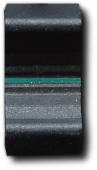
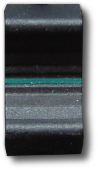
MixerChannel modifiziert New: SetupWidget

diff --git a/StageRunner/gui/customwidget/mixerchannel.cpp b/StageRunner/gui/customwidget/mixerchannel.cpp
@@ -20,6 +20,8 @@ MixerChannel::MixerChannel(QWidget *parent) :
 	knob_yoffset = 0;
 
 	knob_selected_f = false;
+	knob_over_f = false;
+
 	click_value = 0;
 
 	lo_pos_percent = float(LO_POS_PERCENT) / 100;
@@ -28,9 +30,11 @@ MixerChannel::MixerChannel(QWidget *parent) :
 
 	org_pix_back = QPixmap(":/gfx/customwidget/slider_back.png");
 	org_pix_knob = QPixmap(":/gfx/customwidget/slider_button.png");
+	org_pix_knob_active = QPixmap(":/gfx/customwidget/slider_button_active.png");
 
 	minimum_size_hint = QSize(org_pix_back.width() / 4,org_pix_back.height()/2);
 	setMaximumWidth(org_pix_back.width());
+	setMouseTracking(true);
 }
 
 MixerChannel::~MixerChannel()
@@ -50,16 +54,26 @@ void MixerChannel::mousePressEvent(QMouseEvent *event)
 
 void MixerChannel::mouseMoveEvent(QMouseEvent *event)
 {
+	static bool was_in = false;
 	if (knob_selected_f) {
+		knob_over_f = false;
 		float movedif = click_position.y() - event->pos().y();
 		setValue( float(click_value) + ( movedif * maximum() / (pos_range_percent * height())) );
 		update();
+	} else {
+		knob_over_f = knob_rect.contains(event->pos());
+		if (knob_over_f != was_in) {
+			was_in = knob_over_f;
+			update();
+		}
 	}
 }
 
 void MixerChannel::mouseReleaseEvent(QMouseEvent *event)
 {
+	Q_UNUSED(event);
 	knob_selected_f = false;
+	update();
 }
 
 void MixerChannel::resizeEvent(QResizeEvent *event)
@@ -82,8 +96,19 @@ void MixerChannel::paintEvent(QPaintEvent *event)
 
 	knob_rect.setRect((width() - knob_xsize) / 2 , y ,knob_xsize, knob_ysize);
 	knob_scaled_rect.setRect((width() - knob_xsize) / 2 , y ,knob_scaled_xsize, knob_scaled_ysize);
-	p.drawPixmap(knob_scaled_rect,org_pix_knob);
+	if (knob_selected_f || knob_over_f) {
+		p.drawPixmap(knob_scaled_rect,org_pix_knob_active);
+	} else {
+		p.drawPixmap(knob_scaled_rect,org_pix_knob);
+	}
 
+}
+
+void MixerChannel::leaveEvent(QEvent *event)
+{
+	Q_UNUSED(event);
+	knob_over_f = false;
+	update();
 }
 
 void MixerChannel::generate_scaled_knob()

diff --git a/StageRunner/gui/setupwidget.cpp b/StageRunner/gui/setupwidget.cpp
@@ -1,0 +1,61 @@
+#include "setupwidget.h"
+#include "appcontrol/appcentral.h"
+#include "appcontrol/ioplugincentral.h"
+#include "plugins/interfaces/qlcioplugin.h"
+#include "appcontrol/usersettings.h"
+
+#include <QListWidget>
+#include <QListWidgetItem>
+
+SetupWidget::SetupWidget(AppCentral *app_central, QWidget *parent)
+	: myapp(app_central)
+	, QDialog(parent)
+{
+	init();
+
+	setupUi(this);
+
+	QList<QLCIOPlugin*>qlcplugins = myapp->pluginCentral->qlcPlugins();
+	for (int t=0; t<qlcplugins.size(); t++) {
+		QLCIOPlugin *plugin = qlcplugins.at(t);
+		qlcPluginsList->addItem(plugin->name());
+	}
+
+	configurePluginButton->setDisabled(true);
+}
+
+void SetupWidget::init()
+{
+	cur_selected_qlc_plugin = 0;
+
+}
+
+void SetupWidget::on_okButton_clicked()
+{
+	accept();
+
+}
+
+void SetupWidget::on_cancelButton_clicked()
+{
+	reject();
+}
+
+void SetupWidget::on_qlcPluginsList_itemActivated(QListWidgetItem *item)
+{
+	cur_selected_qlc_plugin = myapp->pluginCentral->getQLCPluginByName(item->text());
+
+	if (cur_selected_qlc_plugin) {
+		qlcPluginEdit->setHtml(cur_selected_qlc_plugin->outputInfo(0));
+		configurePluginButton->setEnabled(true);
+	} else {
+		configurePluginButton->setEnabled(false);
+	}
+}
+
+void SetupWidget::on_configurePluginButton_clicked()
+{
+	if (cur_selected_qlc_plugin) {
+		cur_selected_qlc_plugin->configure();
+	}
+}

diff --git a/StageRunner/gui/customwidget/mixerchannel.h b/StageRunner/gui/customwidget/mixerchannel.h
@@ -12,6 +12,7 @@ class MixerChannel : public QAbstractSlider
 private:
 	QPixmap org_pix_back;
 	QPixmap org_pix_knob;
+	QPixmap org_pix_knob_active;
 
 	int knob_xsize;					///< Width of scaled knob without shadow border
 	int knob_ysize;					///< Height of scaled knob without shadow border
@@ -27,6 +28,7 @@ private:
 	float pos_range_percent;
 
 	bool knob_selected_f;			///< Slider knob is clicked and selelected
+	bool knob_over_f;				///< Mouse is over knob
 	QPoint click_position;			///< Mouseposition when clicked in Widget
 	int click_value;				///< Value when mouse clicked in widget
 	QSize minimum_size_hint;
@@ -36,14 +38,15 @@ public:
 	~MixerChannel();
 
 private:
-
 	void mousePressEvent(QMouseEvent *event);
 	void mouseMoveEvent(QMouseEvent *event);
 	void mouseReleaseEvent(QMouseEvent *event);
 	void resizeEvent(QResizeEvent *event);
 	void paintEvent(QPaintEvent *event);
+	void leaveEvent(QEvent *event);
 	void generate_scaled_knob();
 	QSize minimumSizeHint() const;
+
 
 
 signals:

diff --git a/StageRunner/gui/setupwidget.h b/StageRunner/gui/setupwidget.h
@@ -1,0 +1,28 @@
+#ifndef SETUPWIDGET_H
+#define SETUPWIDGET_H
+
+#include "ui_setupwidget.h"
+
+class AppCentral;
+class QLCIOPlugin;
+
+class SetupWidget : public QDialog, public Ui::SetupWidget
+{
+	Q_OBJECT
+private:
+	AppCentral * myapp;
+	QLCIOPlugin * cur_selected_qlc_plugin;
+
+public:
+	SetupWidget(AppCentral *app_central, QWidget *parent = 0);
+private:
+	void init();
+
+private slots:
+	void on_okButton_clicked();
+	void on_cancelButton_clicked();
+	void on_qlcPluginsList_itemActivated(QListWidgetItem *item);
+	void on_configurePluginButton_clicked();
+};
+
+#endif // SETUPWIDGET_H

diff --git a/StageRunner/gui/stagerunnermainwin.cpp b/StageRunner/gui/stagerunnermainwin.cpp
@@ -7,6 +7,7 @@
 #include "appcontrol/usersettings.h"
 #include "thirdparty/widget/qsynthdialpeppinostyle.h"
 #include "thirdparty/widget/qsynthdialclassicstyle.h"
+#include "gui/setupwidget.h"
 
 #include <QFileDialog>
 
@@ -237,4 +238,12 @@ void StageRunnerMainWin::slot_addFxFile(QString path, int pos)
 void StageRunnerMainWin::on_actionEdit_Mode_toggled(bool arg1)
 {
 	AppCentral::instance()->setEditMode(arg1);
+}
+
+void StageRunnerMainWin::on_actionSetup_triggered()
+{
+	SetupWidget setup(mainapp);
+	setup.show();
+	setup.exec();
+
 }

diff --git a/StageRunner/appcontrol/ioplugincentral.h b/StageRunner/appcontrol/ioplugincentral.h
@@ -20,6 +20,7 @@ public:
 
 	QLCIOPlugin * getQLCPluginByName(const QString & name);
 	void loadQLCPlugins(const QString & dir_str);
+	const QList<QLCIOPlugin*> & qlcPlugins() const {return qlc_plugins;}
 	/**
 	 * @brief Determine system default plugin directory path
 	 *

diff --git a/StageRunner/gui/stagerunnermainwin.h b/StageRunner/gui/stagerunnermainwin.h
@@ -45,6 +45,8 @@ private slots:
 
 	void on_actionEdit_Mode_toggled(bool arg1);
 
+	void on_actionSetup_triggered();
+
 private:
 	void init();
 };
